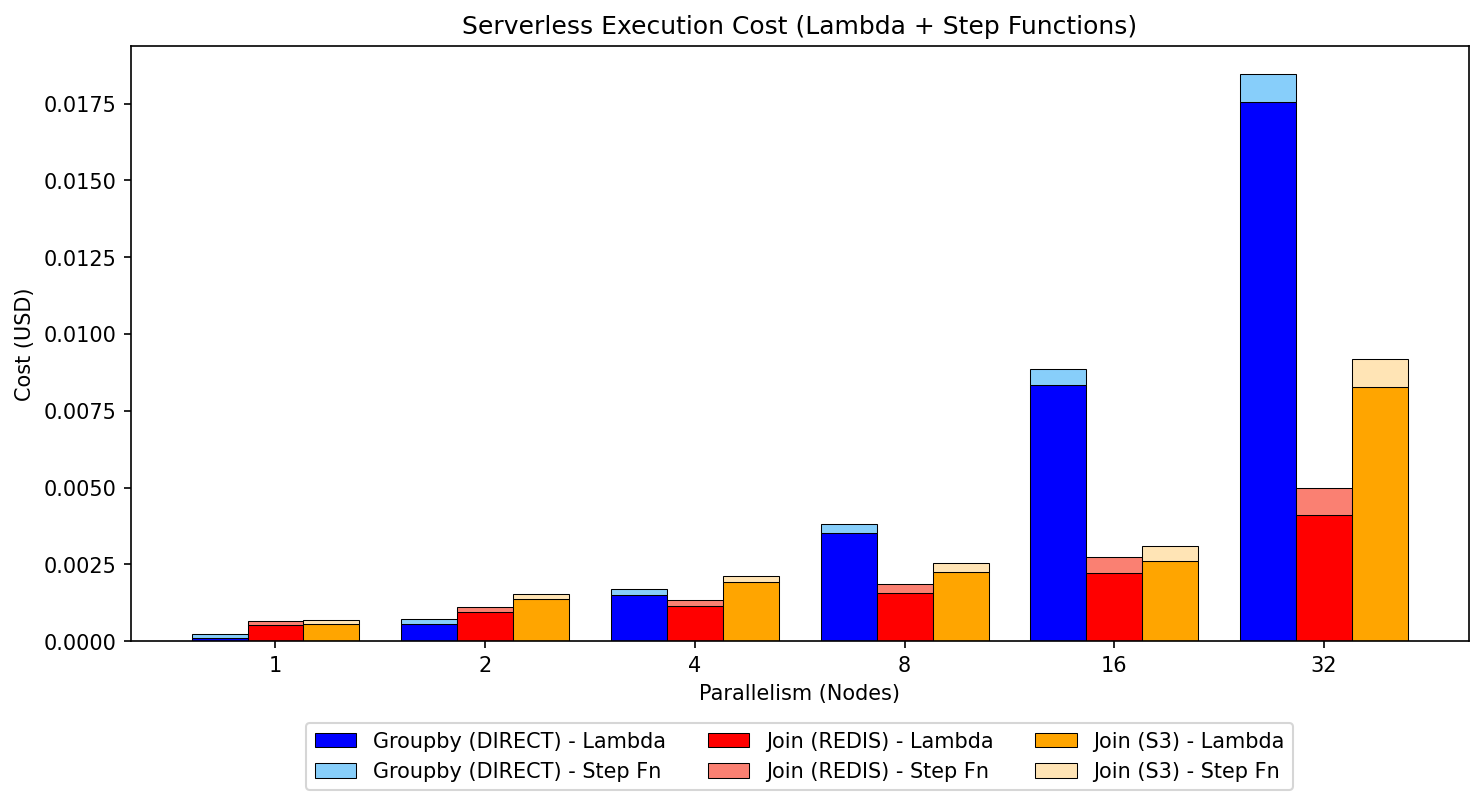
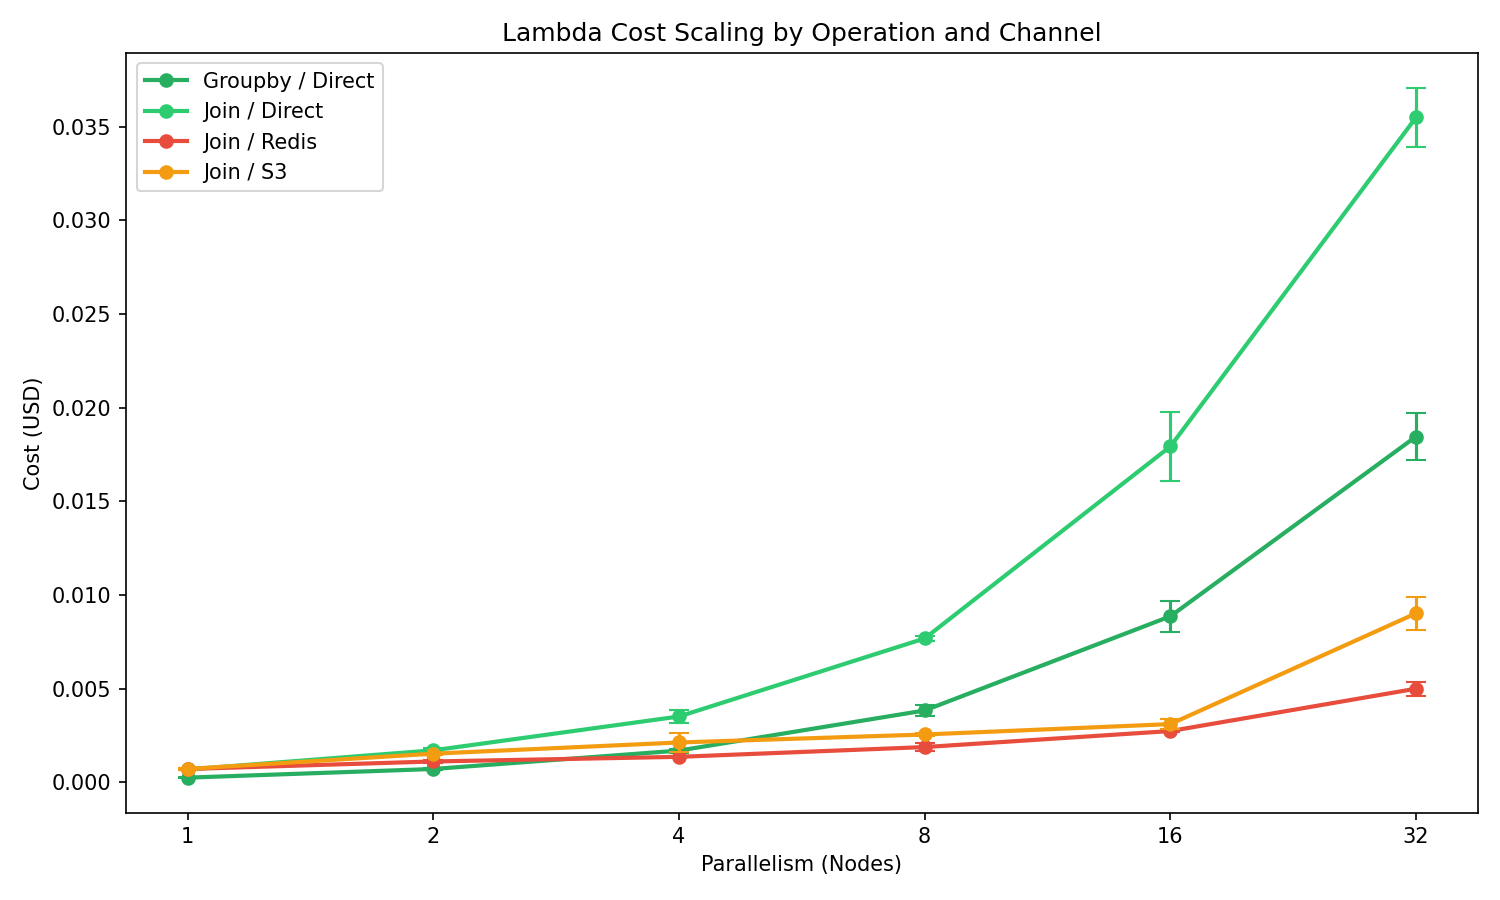
updates related to frontiers experiments

diff --git a/target/shared/scripts/results/results_aggregator.py b/target/shared/scripts/results/results_aggregator.py
@@ -50,6 +50,40 @@ MS_TO_S_COLUMNS = [
 ]
 
 
+def extract_join_total(scaling_filepath: str) -> Optional[float]:
+    """Extract join_total wall-clock time (seconds) from a scaling file.
+
+    The scaling file contains a CSV line like:
+      # csv,join_total_fmi-cylon_9100000_10,ok,438.22,438.22,...
+    The 4th field (index 3) is the elapsed time in seconds.
+    """
+    if not os.path.isfile(scaling_filepath):
+        return None
+    try:
+        with open(scaling_filepath, 'r') as f:
+            for line in f:
+                if line.startswith('# csv,join_total') or line.startswith('# csv,groupby_total'):
+                    parts = line.split(',')
+                    if len(parts) >= 4:
+                        return float(parts[3])
+    except (ValueError, IOError):
+        pass
+    return None
+
+
+def find_scaling_file(summary_filepath: str) -> Optional[str]:
+    """Derive the scaling file path from a summary file path."""
+    dirname = os.path.dirname(summary_filepath)
+    basename = os.path.basename(summary_filepath)
+    scaling_name = basename.replace('_summary_', '_scaling_')
+    if scaling_name == basename:
+        scaling_name = basename.replace('cylon_summary_', 'cylon_scaling_')
+    scaling_path = os.path.join(dirname, scaling_name)
+    if os.path.isfile(scaling_path):
+        return scaling_path
+    return None
+
+
 def parse_node_count_from_filename(filename: str) -> Optional[int]:
     """Extract node count from filename like 'cylon_summary_test_..._4node.txt'."""
     match = re.search(r'_(\d+)node', filename)
@@ -163,6 +197,14 @@ def aggregate_experiment_files(
             logger.warning(f"Empty or unparseable: {filepath}")
             continue
         summary = aggregate_single_file(df)
+
+        # Extract join_total from the corresponding scaling file
+        scaling_path = find_scaling_file(filepath)
+        if scaling_path:
+            jt = extract_join_total(scaling_path)
+            if jt is not None:
+                summary['join_total'] = jt
+
         run_summaries.append(summary)
 
     if not run_summaries:
@@ -188,6 +230,15 @@ def aggregate_experiment_files(
         result['rows'] = int(runs_df['rows'].iloc[0])
     if 'tot_l' in runs_df.columns:
         result['tot_l'] = int(runs_df['tot_l'].iloc[0])
+
+    # Compute join_total mean/std (already in seconds, from scaling files)
+    if 'join_total' in runs_df.columns and runs_df['join_total'].notna().any():
+        jt_vals = runs_df['join_total'].dropna()
+        result['join_total_mean'] = jt_vals.mean()
+        result['join_total_std'] = jt_vals.std() if len(jt_vals) > 1 else 0.0
+    else:
+        result['join_total_mean'] = np.nan
+        result['join_total_std'] = np.nan
 
     # Compute mean and std for each metric, converting ms to seconds
     for col in METRIC_COLUMNS:

diff --git a/target/shared/scripts/results/chart_generator.py b/target/shared/scripts/results/chart_generator.py
@@ -431,14 +431,16 @@ def chart_infrastructure_comparison(df: pd.DataFrame, config, experiments: list 
             continue
 
         color, marker, label = CHANNEL_STYLES.get(channel, ('gray', 'x', channel))
-        ax.plot(ch_data['node_count'].astype(str), ch_data['avg_t_mean'],
+        y = ch_data['join_total_mean']
+        y_err = ch_data['join_total_std']
+        ax.plot(ch_data['node_count'].astype(str), y,
                 marker=marker, color=color, label=label, linewidth=2)
-        ax.errorbar(ch_data['node_count'].astype(str), ch_data['avg_t_mean'],
-                     yerr=ch_data['avg_t_std'], fmt='none', color=color,
+        ax.errorbar(ch_data['node_count'].astype(str), y,
+                     yerr=y_err, fmt='none', color=color,
                      ecolor=color, capsize=5)
 
     ax.set_xlabel('Parallelism (Nodes)')
-    ax.set_ylabel('Average Time (s)')
+    ax.set_ylabel('Execution Time (s)')
     ax.set_title('Communication Infrastructure Comparison (Join Weak Scaling)')
     ax.set_yscale('log')
     ax.legend()

diff --git a/target/shared/scripts/results/notebook_generator.py b/target/shared/scripts/results/notebook_generator.py
@@ -523,13 +523,15 @@ else:
             if ch_data.empty:
                 continue
             color, marker, label = CHANNEL_STYLES.get(channel, ('gray', 'x', channel))
-            ax.plot(ch_data['node_count'].astype(str), ch_data['avg_t_mean'],
+            y = ch_data['join_total_mean']
+            y_err = ch_data['join_total_std']
+            ax.plot(ch_data['node_count'].astype(str), y,
                     marker=marker, color=color, label=label, linewidth=2)
-            ax.errorbar(ch_data['node_count'].astype(str), ch_data['avg_t_mean'],
-                         yerr=ch_data['avg_t_std'], fmt='none', color=color, capsize=5)
+            ax.errorbar(ch_data['node_count'].astype(str), y,
+                         yerr=y_err, fmt='none', color=color, capsize=5)
 
         ax.set_xlabel('Parallelism (Nodes)')
-        ax.set_ylabel('Average Time (s)')
+        ax.set_ylabel('Execution Time (s)')
         ax.set_title('Communication Infrastructure Comparison (Join Weak Scaling)')
         ax.set_yscale('log')
         ax.legend()

diff --git a/papers/frontiers_revision_plan.md b/papers/frontiers_revision_plan.md
@@ -596,7 +596,7 @@ All charts generated from `aggregated_results.csv` via the results pipeline. PNG
 
 **Reviewer relevance:** **L3 — Missing baseline comparisons.** This is the key chart for L3.
 
-**What to look for:** Log scale shows clear separation. Direct TCP (green) is slowest for weak scaling (30→65s, increasing with nodes because data grows). Redis (red) and S3 (orange) are *faster* because they avoid all-to-all shuffle — each node uploads/downloads independently. Redis is fastest at scale (7s at 32n). S3 has slight uptick at 32n (possible throttling). The tradeoff: direct has higher execution time but avoids external infrastructure dependency.
+**What to look for:** Log scale shows wall-clock execution time (`join_total` from the reporting rank's scaling file) for all three channels performing the same join with the same all-to-all shuffle — the channel only changes the transport layer. All experiments were run in Feb 2026 under controlled conditions with identical code. At 1 node all channels are comparable (~33s). At 2+ nodes, Direct (TCP) pulls ahead and stays the fastest: 129s at 32n vs Redis 255s vs S3 455s. Direct benefits from low-latency peer-to-peer connections once TCPunch NAT traversal establishes them. Redis adds per-key round-trip overhead on every data exchange. S3 is slowest due to high per-object PUT/GET latency for each shuffle operation, with a sharp increase at 32n.
 
 ![Infrastructure Comparison](../target/aws/scripts/notebooks/infrastructure-comparison.png)
 
